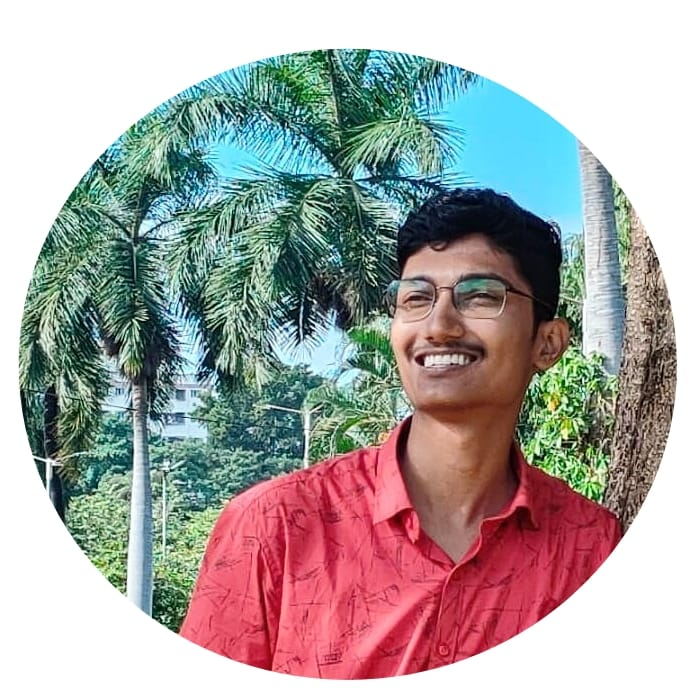
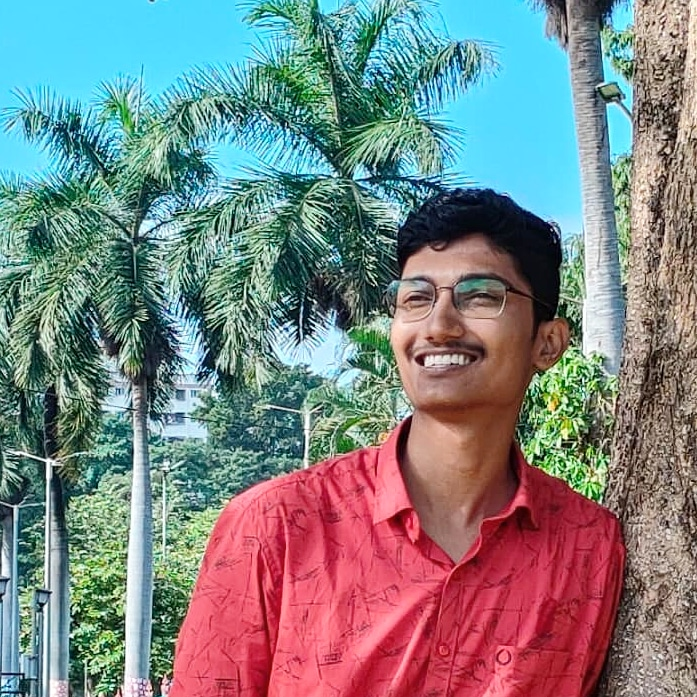
bg and font improvement

diff --git a/style.css b/style.css
@@ -8,11 +8,20 @@
 }
 
 body{
-    font-family: 'Poppins', sans-serif; ;
+    font-family: 'Poppins', sans-serif;
+    background-image: url('./assets/BG.jpg');
+    background-size: cover; /* Ensures the image covers the entire background */
+    background-position: center; /* Centers the image within the container */
+     background-repeat: no-repeat; 
+
 }
 
 html{
-    scroll-behavior:smooth ;
+    scroll-behavior: smooth;
+}
+
+#pfp{
+    border-radius: 50%;
 }
 
 p{
@@ -40,7 +49,8 @@ nav{
 .nav-links{
     gap:2rem;
     list-style: none;
-    font-size: 1.7rem;
+    font-size: 2rem;
+    font-weight: 500;
 }
 
 a{
@@ -54,11 +64,12 @@ a:hover{
     color: gray;
     text-decoration: underline;
     text-underline-offset: 0.7rem;
-    text-decoration-color: rgb(181,181,181);
+    text-decoration-color: rgb(218, 60, 60);
 }
 
 .logo{
-    font-size: 2rem;
+    font-size: 2.5rem;
+    font-weight: 400;
 }
 .logo:hover{
     cursor: default;
@@ -90,7 +101,7 @@ section{
     height: 400px;
     width: 400px;
     margin: auto 0;
-    mix-blend-mode:overlay;
+    
 }
 
 .section__text{
@@ -100,11 +111,12 @@ section{
 }
 
 .section__text p{
-    font-weight: 600;
+    font-weight: 700;
 }
 .section__text__p1{
     text-align: center;
     font-size: 1.5rem;
+    font-weight: 800;
 }
 .section__text__p2{
     font-size: 1.75rem;
@@ -173,11 +185,14 @@ section{
 .about-details-container{
     justify-content: center;
     flex-direction: column;
+    font-weight: 700;
+    font-size: large;
 }
 
 .about-containers,.about-details-container
 {
-    display: flex;
+    display:flex;
+    
 }
 
 .about-pic{
@@ -198,6 +213,7 @@ section{
     border: rgb(53, 53, 53) 0.1rem solid;
     border-color: rgb(163,163,163);
     text-align: center;
+    margin-bottom: 40px;
 }
 
 .section-container{
@@ -208,7 +224,11 @@ section{
 .section__pic-container{
     height: 400px;
     width: 400px;
-    margin: auto;
+    margin-right: 10px;
+}
+
+.text-container{
+    font-size: 1.3rem;
 }
 
 /* Experience*/
@@ -231,6 +251,9 @@ section{
     flex-direction: column;
   }
   
+  .about-containers-2{
+    display: block;
+  }
   .article-container {
     display: flex;
     text-align: initial;
@@ -270,6 +293,7 @@ section{
     background: (250, 250, 250);
     margin: 2rem auto;
     padding: 0.5rem;
+    font-weight: 700
   }
   
   .contact-info-container {

diff --git a/index.html b/index.html
@@ -8,6 +8,7 @@
     <link rel="stylesheet" href="mediaqueries.css">
 </head>
 <body>
+  
     <nav id="nav">
         <div class="logo">Rushiraj Rajeshirke</div>
         <div>
@@ -21,7 +22,7 @@
     </nav>
     <section id="profile">
         <div class="section__pic-container">
-            <img src="./assets/Rushiraj.jpg" alt="Rushiraj pfp">
+            <img src="./assets/Rushiraj.jpg" alt="Rushiraj pfp" id="pfp">
         </div>
         <div class="section__text">
             <p class="section__text__p1">Hello,I'm</p>
@@ -59,11 +60,11 @@
                     <div class="details-container">
                         <img src="./assets/experience.png" alt="education icon" class="icon">
                         <h3>Certifications</h3>
-                        <p>AWS SAA C03</p><br/><p>Cloud Solutions Architect</p>
+                        <p>AWS SAA C03</p><br/><p>Cloud Solutions Architect Trained</p>
                     </div>
                 </div>
                 <div class="text-container">
-                    <p>Lorem ipsum dolor sit amet consectetur, adipisicing elit. Obcaecati vel provident impedit accusantium doloremque, dicta omnis. Laboriosam atque repudiandae voluptatem obcaecati aliquid quidem tempore sunt deserunt nesciunt? Tenetur reiciendis fugiat placeat incidunt, doloremque libero deleniti itaque vitae veniam, obcaecati adipisci saepe repellendus iure, distinctio laboriosam at! Nam obcaecati neque dicta.
+                    <p>Hello there! 👋 I'm Rushiraj Sacjhin Rajeshirke, an aspiring IT professional currently pursuing my studies at Sinhgad College of Engineering (SCOE) in Pune. Passionate about the ever-evolving world of technology, I am on a journey to sharpen my skills in Web Development and Cloud Computing.
                     </p>
                 </div>
             </div>
@@ -75,7 +76,7 @@
         <p class="section__text__p1">Explore My</p>
         <h1 class="title">Skills</h1>
         <div class="experience-details-container">
-          <div class="about-containers">
+          <div class="about-containers-2">
             <div class="details-container">
               <h2 class="experience-sub-title">Frontend Development</h2>
               <div class="article-container">
